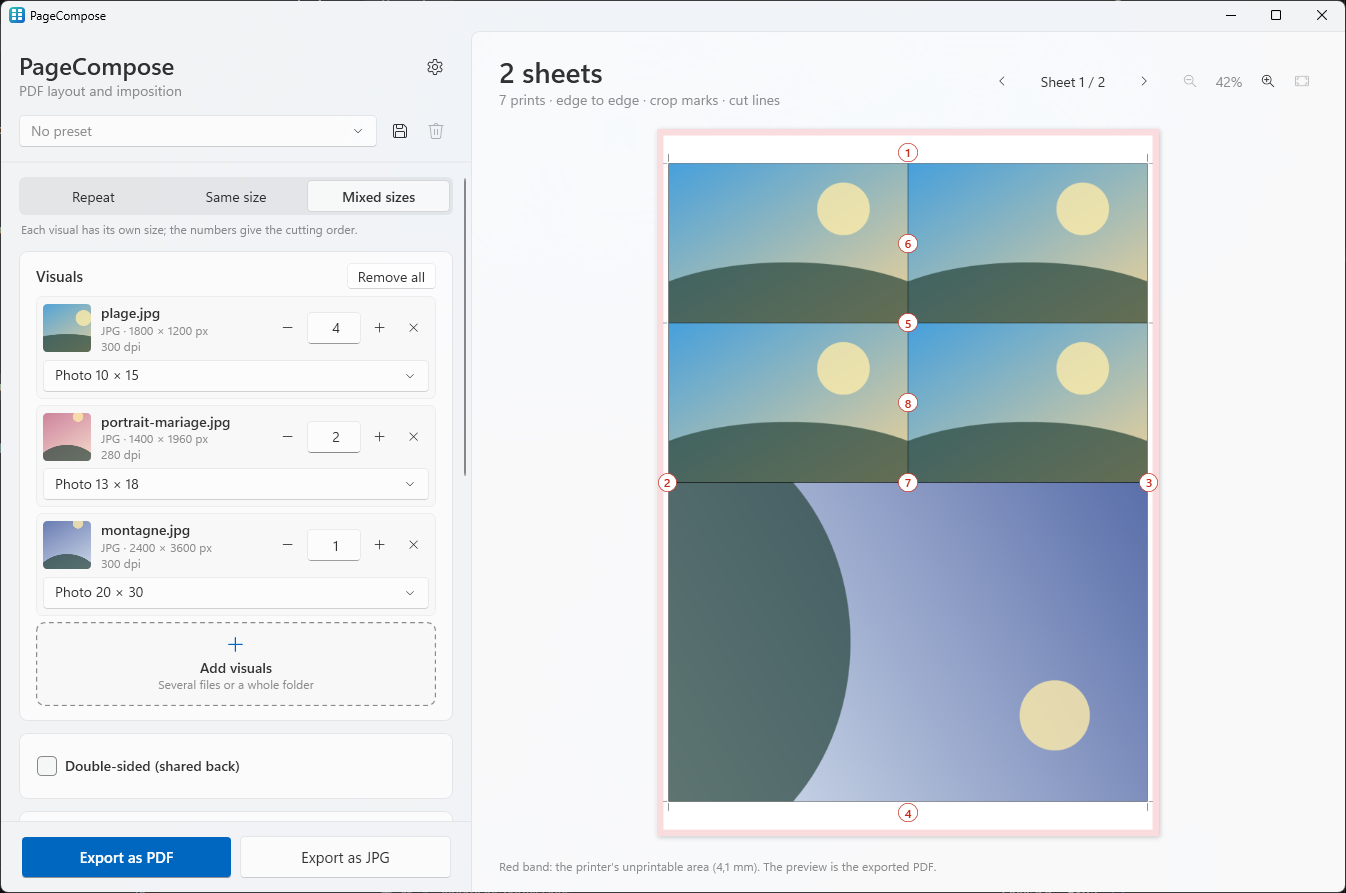
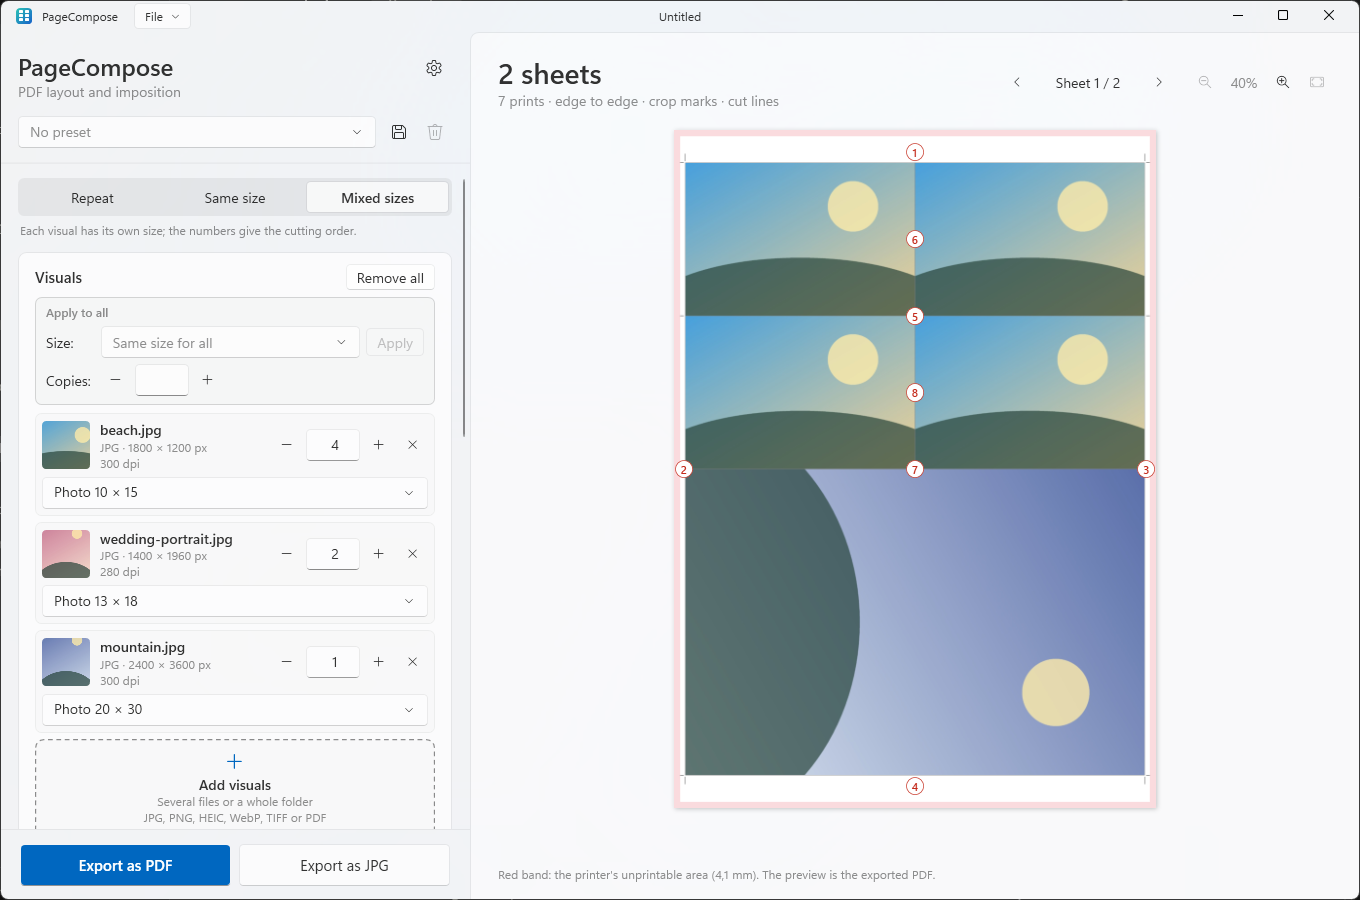
README screenshots of 0.13.0, with the numbering
The four pictures retaken in English and French: Same size with its shared back (a demo project), classic Polaroid frames with a text in their band, Mixed sizes with the cut numbers, and a new one of raffle tickets numbered on the ticket and its stub.

diff --git a/CLAUDE.md b/CLAUDE.md
@@ -577,9 +577,13 @@ the photo sizes moved to exact inches.
 - README screenshots, in English and French (`.fr.png`), the main window at its default size (1360 × 900), light
   theme: `.github/screenshot.png` (Compose mode, three photos 10 × 15 on SRA3, the back shown),
   `.github/screenshot-polaroid.png` (Repeat mode, classic Polaroid on SRA3, margin fields shown) and
-  `.github/screenshot-mixed.png` (Mixed mode, 10 × 15, 13 × 18 and 20 × 30 on SRA3, cut numbers shown). Synthetic
-  photos only (gradient, sun and hill, in the proportions of their sizes: the author liked them). The script that
-  takes them is in `.local\` (see below), from the default settings; `-Preview` saves window pictures to check first.
+  `.github/screenshot-mixed.png` (Mixed mode, 10 × 15, 13 × 18 and 20 × 30 on SRA3, cut numbers shown) and
+  `.github/screenshot-numbering.png` (raffle tickets numbered on the ticket and its stub, the numbering card shown; a
+  demo ticket drawn by `.local\cs\ticket.cs`). Synthetic photos only (gradient, sun and hill, in the proportions of
+  their sizes: the author liked them), named in the language of the picture. The script that takes them is in
+  `.local\` (see below), from the default settings; `-Preview` saves window pictures to check first. It sends no key:
+  the first picture opens a demo project (three photos and their shared back, named "holidays" / "vacances"), the
+  text in the Polaroid band is set through UI Automation. Retaken on October 19, 2026 (0.13.0).
 
 ## Working on several PCs
 

diff --git a/README.fr.md b/README.fr.md
@@ -90,7 +90,7 @@ Exemples sur une feuille SRA3 :
 | Carte postale A6 | 8 | 6 |
 
 <p align="center">
-  <img src=".github/screenshot-polaroid.fr.png" width="900" alt="Douze cadres Polaroid classiques sur une feuille SRA3, avec les marges blanches du cadre">
+  <img src=".github/screenshot-polaroid.fr.png" width="900" alt="Douze cadres Polaroid classiques sur une feuille SRA3, avec les marges blanches du cadre et un texte dans leur bande">
 </p>
 
 En mode Multi-formats, une commande de quatre 10 × 15, deux 13 × 18 et un 20 × 30 tient sur 2 feuilles SRA3, là où une
@@ -98,6 +98,12 @@ planche par format en prend 3 :
 
 <p align="center">
   <img src=".github/screenshot-mixed.fr.png" width="900" alt="Mode Multi-formats : tirages 10 x 15 et 20 x 30 sur une feuille SRA3, les coupes numérotées dans l'ordre">
+</p>
+
+Des tickets de tombola numérotés sur le ticket et sur sa souche :
+
+<p align="center">
+  <img src=".github/screenshot-numbering.fr.png" width="900" alt="Seize tickets de tombola sur une feuille SRA3, chacun numéroté sur le ticket et sur sa souche, les réglages de la numérotation affichés">
 </p>
 
 ### Imprimer le PDF

diff --git a/README.md b/README.md
@@ -86,7 +86,7 @@ Examples on an SRA3 sheet:
 | A6 postcard | 8 | 6 |
 
 <p align="center">
-  <img src=".github/screenshot-polaroid.png" width="900" alt="Twelve classic Polaroid frames on an SRA3 sheet, with the white margins of the frame">
+  <img src=".github/screenshot-polaroid.png" width="900" alt="Twelve classic Polaroid frames on an SRA3 sheet, with the white margins of the frame and a text in their band">
 </p>
 
 In Mixed sizes mode, an order of four 10 × 15, two 13 × 18 and one 20 × 30 takes 2 SRA3 sheets, where one sheet per size
@@ -94,6 +94,12 @@ takes 3:
 
 <p align="center">
   <img src=".github/screenshot-mixed.png" width="900" alt="Mixed sizes mode: 10 x 15 and 20 x 30 prints packed on an SRA3 sheet, the cuts numbered in cutting order">
+</p>
+
+Raffle tickets numbered on the ticket and on its stub:
+
+<p align="center">
+  <img src=".github/screenshot-numbering.png" width="900" alt="Sixteen raffle tickets on an SRA3 sheet, each numbered on the ticket and on its stub, the numbering settings shown">
 </p>
 
 ### Printing the PDF
